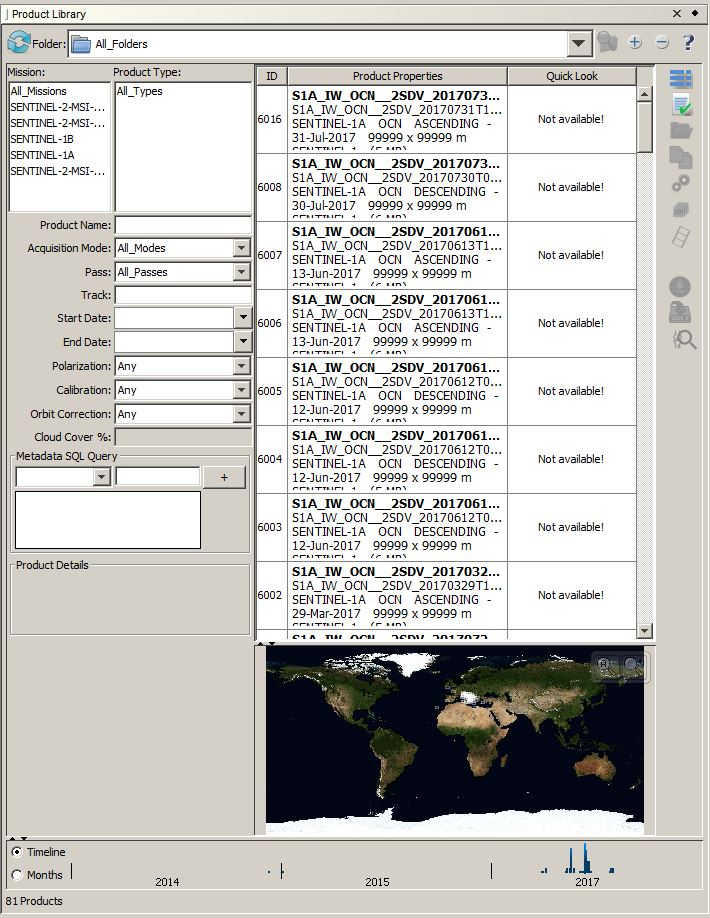
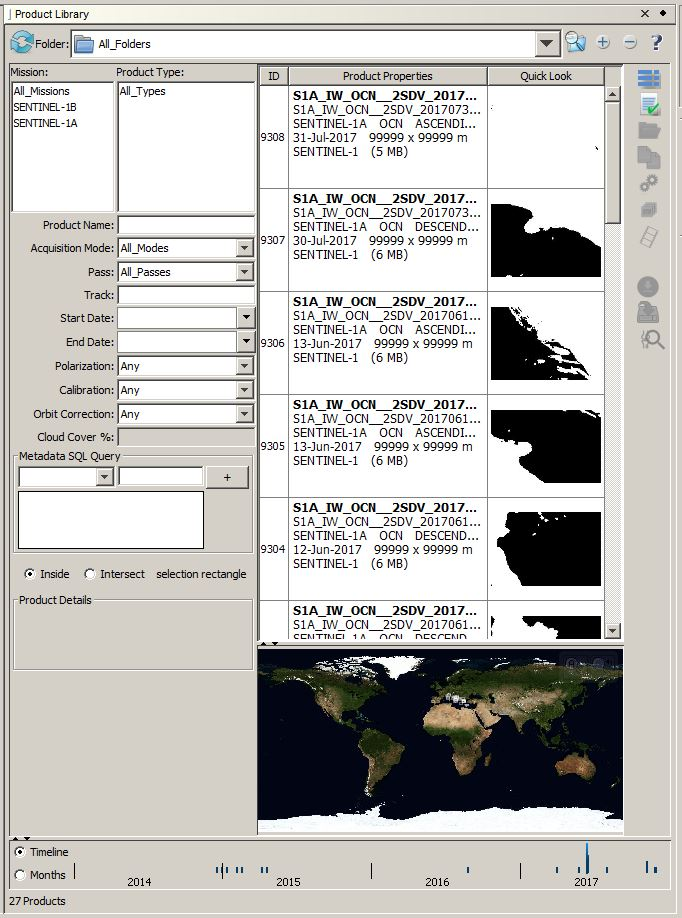
SNAP-874: Add user option to choose inside or intersect AOI selection rectangle

diff --git a/snap-product-library/src/main/resources/org/esa/snap/productlibrary/docs/desktop/ProductLibrary.html b/snap-product-library/src/main/resources/org/esa/snap/productlibrary/docs/desktop/ProductLibrary.html
@@ -3,7 +3,8 @@
 
 
     <meta http-equiv="Content-Type" content="text/html; charset=iso-8859-1">
-    <link rel="stylesheet" href="../style.css"></head><body>
+    <link rel="stylesheet" href="../style.css"></head>
+<body>
 <table class="header" width="100%">
     <tbody>
     <tr class="header">
@@ -36,12 +37,13 @@
     Toolbox are able to work with the metadata in this common form without
     requiring the user to manually input any metadata.</p>
 
-<p>Products may
-    be searched in terms of mission, product type, beam mode, ground
-    location, date and time of acquisition, processing history, previously
-    defined AOIs, and suggested image pairing. Products may also be
-    searched by graphically drawing an area of interest on the world map
-    and querying the database for products that cover the AOI.</p>
+<p>Products may be searched in terms of mission, product type, beam
+mode, ground location, date and time of acquisition, processing
+history, previously defined AOIs, and suggested image pairing. Products
+may also be searched by graphically drawing an area of interest on the
+world map and querying the database for products that cover the AOI.
+Use the radio buttons to choose whether the products have to be inside
+the AOI selection rectangle or just intersect it.</p>
 
 <p>The
     user may then select from the resulting table of products which

diff --git a/snap-product-library/src/main/java/org/esa/snap/productlibrary/rcp/toolviews/DatabasePane.java b/snap-product-library/src/main/java/org/esa/snap/productlibrary/rcp/toolviews/DatabasePane.java
@@ -76,6 +76,8 @@ public final class DatabasePane extends JPanel {
     private final JTextArea metadataArea = new JTextArea();
     private final JButton addMetadataButton = new JButton("+");
     private final JTextArea productText = new JTextArea();
+    private final JRadioButton bboxInsideButton = new JRadioButton("Inside", true);
+    private final JRadioButton bboxIntersectButton = new JRadioButton("Intersect", false);
 
     private RepositoryInterface repository;
     private ProductQueryInterface productQueryInterface;
@@ -116,6 +118,20 @@ public final class DatabasePane extends JPanel {
             addMetadataButton.addActionListener(new ActionListener() {
                 public void actionPerformed(ActionEvent e) {
                     addMetadataText();
+                }
+            });
+
+            bboxInsideButton.addActionListener(new ActionListener() {
+                public void actionPerformed(ActionEvent e) {
+                    dbQuery.insideSelectionRectangle(bboxInsideButton.isSelected());
+                    partialQuery();
+                }
+            });
+
+            bboxIntersectButton.addActionListener(new ActionListener() {
+                public void actionPerformed(ActionEvent e) {
+                    dbQuery.insideSelectionRectangle(bboxInsideButton.isSelected());
+                    partialQuery();
                 }
             });
 
@@ -221,6 +237,17 @@ public final class DatabasePane extends JPanel {
         gbc.gridx = 0;
         gbc.gridwidth = 2;
         this.add(createFreeSearchPanel(), gbc);
+
+        gbc.gridy++;
+        final ButtonGroup group = new ButtonGroup();
+        group.add(bboxInsideButton);
+        group.add(bboxIntersectButton);
+        final JPanel radioPanel = new JPanel(new FlowLayout());
+        //radioPanel.add(new JLabel("Bounding Rectangle: "));
+        radioPanel.add(bboxInsideButton);
+        radioPanel.add(bboxIntersectButton);
+        radioPanel.add(new JLabel(" selection rectangle"));
+        this.add(radioPanel, gbc);
 
         gbc.gridy++;
         final JPanel productDetailsPanel = new JPanel(new BorderLayout());
@@ -480,6 +507,7 @@ public final class DatabasePane extends JPanel {
     void setSelectionRect(final GeoPos[] selectionBox) {
         dbQuery.setSelectionRect(selectionBox);
         dbQuery.setReturnAllIfNoIntersection(true);
+        dbQuery.insideSelectionRectangle(bboxInsideButton.isSelected());
         partialQuery();
     }
 
